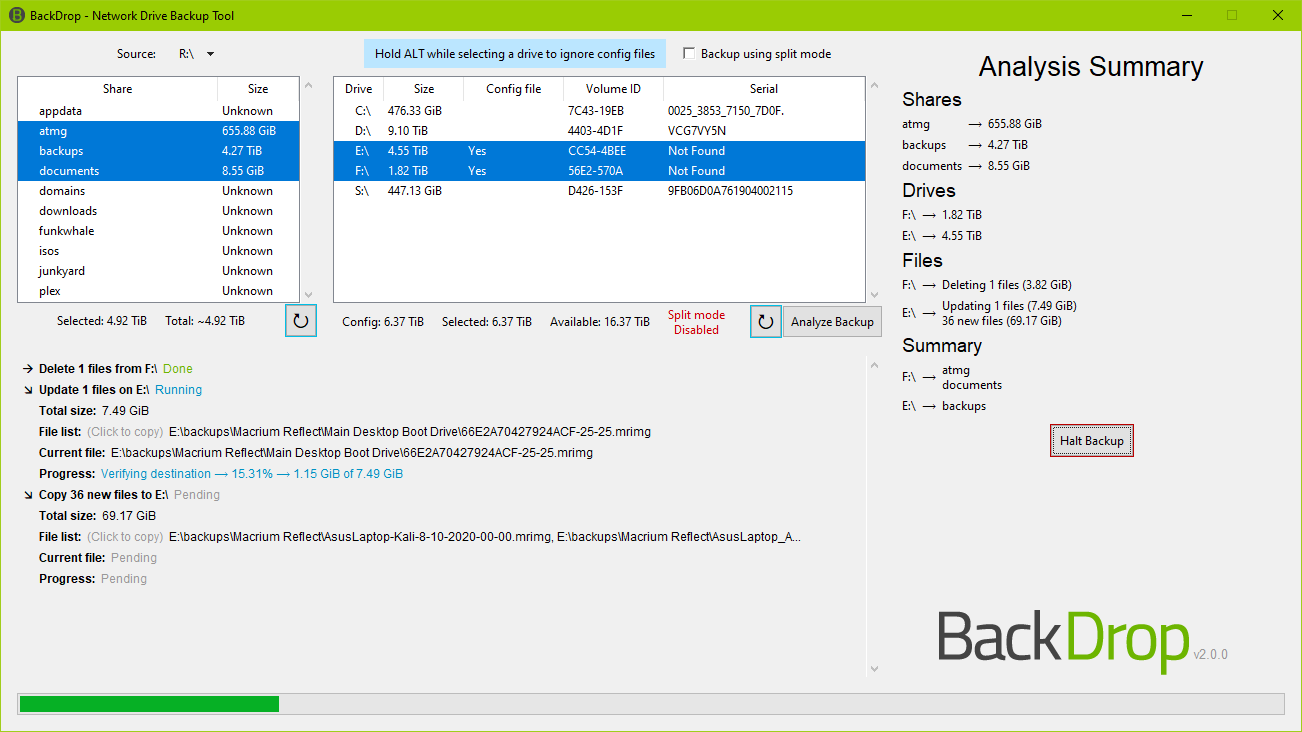
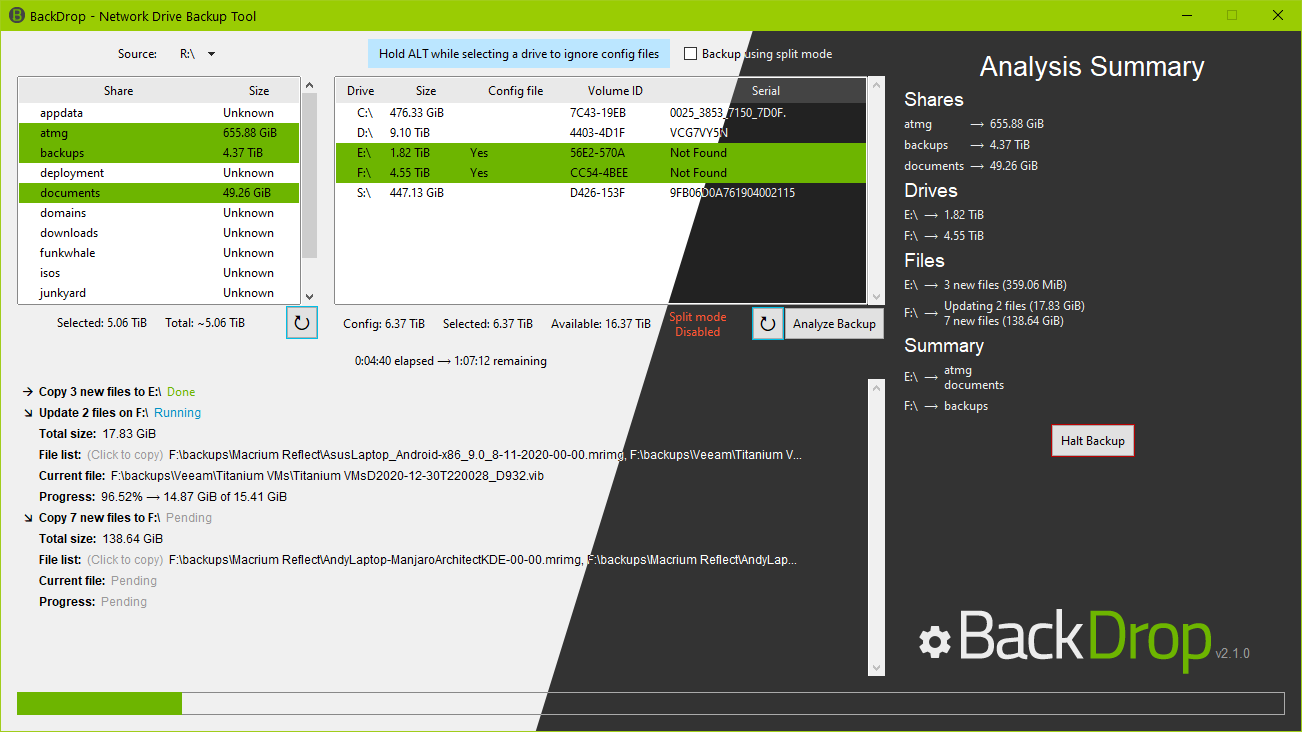
Updated to version 2.1.0

diff --git a/backdrop.py b/backdrop.py
@@ -25,7 +25,7 @@ from bin.commandLine import CommandLine
 from bin.backup import Backup
 
 # Set meta info
-appVersion = '2.1.0-rc.1'
+appVersion = '2.1.0'
 
 # IDEA: Add config builder, so that if user can't connect all drives at once, they can be walked through connecting drives to build an initial config
 # TODO: Add a button in @interface for deleting the @config from @selected_drives

diff --git a/README.md b/README.md
@@ -7,7 +7,7 @@
   <img alt="undefined" src="https://img.shields.io/github/downloads/TechGeek01/BackDrop/total" />
   <a href="https://github.com/TechGeek01/BackDrop/blob/master/LICENSE"><img alt="undefined" src="https://img.shields.io/github/license/TechGeek01/BackDrop"></a>
   <br />
-  <a href="https://github.com/TechGeek01/BackDrop/releases/download/v2.0.1/backdrop-v2.0.1.exe" target="_blank"><img alt="undefined" src="https://badgen.net/badge/Download/Windows/?color=blue&icon=windows&label"></a>
+  <a href="https://github.com/TechGeek01/BackDrop/releases/download/v2.1.0/backdrop.exe" target="_blank"><img alt="undefined" src="https://badgen.net/badge/Download/Windows/?color=blue&icon=windows&label"></a>
   <br /><br />
 </p>
 
@@ -39,4 +39,5 @@ The fun part is that these file lists are calculated before each backup. This me
 * **Split share mode:** If you can't connect all of the drives at once when updating an existing config, there's an option for split mode. With split mode enabled, the backup will be analyzed and processed as though all drives are connected, but commands to drives that are disconnected will be skipped.
 * **Drive split mode warnings:** If a config is loaded from a drive, and not all drives are connected, it will automatically warn you, and only let you continue with analysis if you connect the missing drives, or enable split mode.
 * **Backup config memory:** Config files about your backups are stored on each drive. This means that when you select a drive you've previously used for backup, BackDrop will automatically select the other drives in the config, and the shares you had selected, so that you can update the backup that's already on the drive.
+* **Command line:** There's a built-in command line mode that's able to take parameters to configure and run a backup. This makes it possible to script and automate backups with BackDrop.
 * **Portability:** The best part about it is that there is no installation, and it's all a single executable! This means you can take it with you if you want, or run it on multiple computers. And because there's no installation, when you're not using it, BackDrop is completely out of the way.

diff --git a/CHANGELOG.md b/CHANGELOG.md
@@ -1,6 +1,25 @@
 # Changelog
 All notable changes to this project will be documented in this file.
 
+## [2.1.0] - 2020-01-08
+### Added
+- Added settings menu
+- Added ETA to backups
+- Added command line mode
+- Experimental WIP dark mode
+
+### Fixed
+- Fixed expanding command arrows causing issues while analysis is still running
+- Analysis button now checks if an existing backup is running, to prevent it from being replaced before finishing
+- Fixed missing sliders on scrollbars for source and destination trees
+
+### Changed
+- Significantly improved copy speed
+	- ***Note:** CLI mode is significantly slower than the GUI. A fix is in the works.*
+- Windows can now be centered on top of other windows, rather than just the screen
+- Separated classes into their own files
+- Restructured code
+
 ## [2.0.1] - 2020-12-25
 ### Fixed
 - Functions for gathering file lists during analysis no longer break when trying to query missing drives
